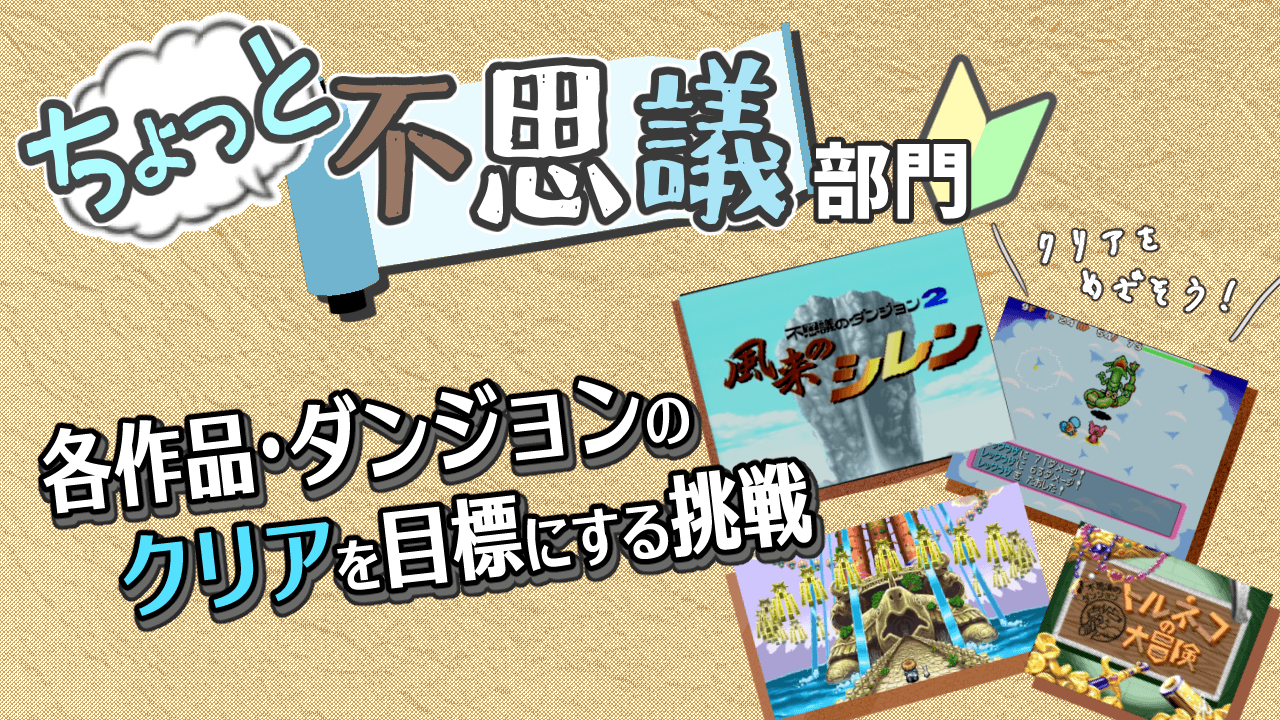
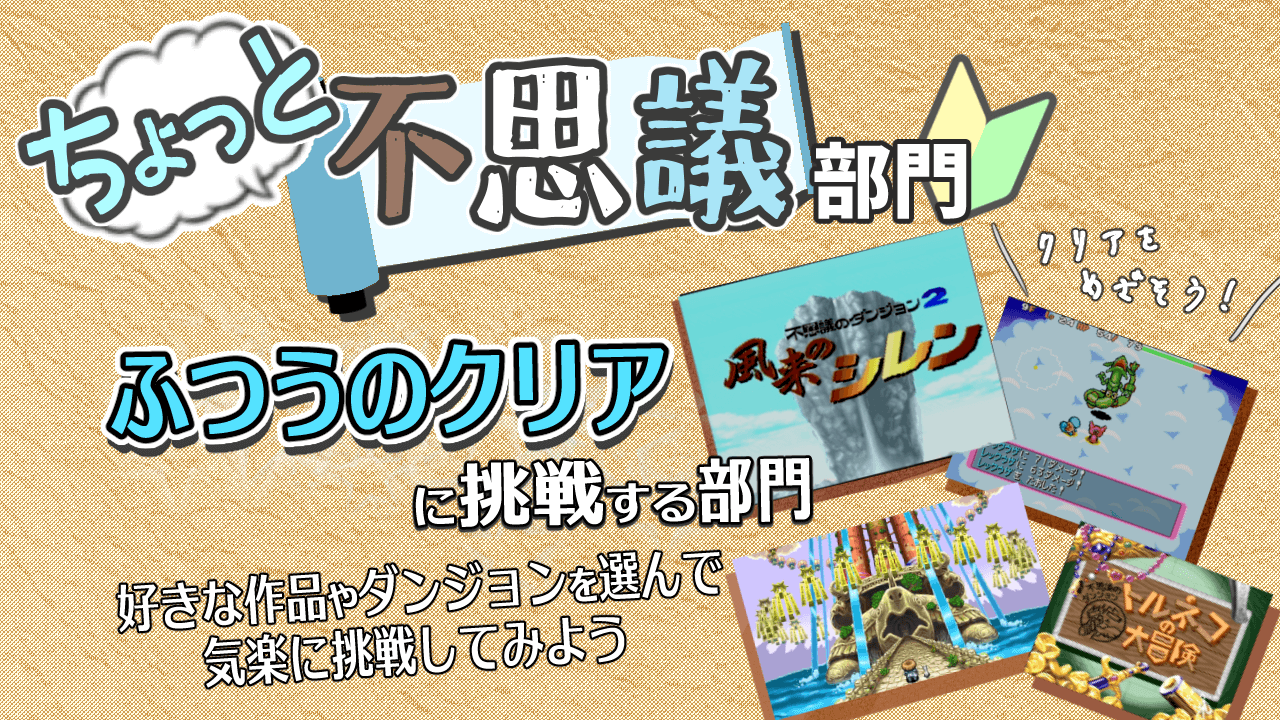
フライヤー差し替え

Changed region(s): [[0.0312, 0.4278, 0.6562, 0.9778], [0.8438, 0.7333, 0.875, 0.7639], [0.1562, 0.4278, 0.1875, 0.4583]]

diff --git a/src/components/page/event/Challenge/Challenge.tsx b/src/components/page/event/Challenge/Challenge.tsx
@@ -1,4 +1,5 @@
-import BlueButton from '@/components/ButtonLink/BlueButtonLink'
+import BlueButtonLink from '@/components/ButtonLink/BlueButtonLink'
+import BrownButtonLink from '@/components/ButtonLink/BrownButtonLink'
 import OutLineGreenButtonLink from '@/components/ButtonLink/OutLineGreenButtonLink'
 import SmallDiscordLink from '@/components/DiscordLink/SmallDiscordLink'
 import styles from '@/components/page/event/Challenge/Challenge.module.scss'
@@ -109,12 +110,12 @@ const Challenge = () => {
           <br />
           どなたでも応募可能です。
           <br />
-          イベント応募と結果報告は以下のGoogleフォームから行ってください。
+          イベント応募は以下のGoogleフォームから行ってください。
           <br />
           期間中の途中参加も大歓迎です！
           <br />
           <br />
-          <BlueButton
+          <BlueButtonLink
             href="https://docs.google.com/forms/d/e/1FAIpQLSd1C2o799W9tmZCbBWRBkvv2fXxNUtOdP0pOfNywUj5z901xw/viewform?usp=sf_link"
             text="イベントに応募する"
             target="_blank"
@@ -124,6 +125,17 @@ const Challenge = () => {
           <OutLineGreenButtonLink href="/event/challenge/submissions" text="応募一覧" />
         </p>
 
+        <h2>結果報告</h2>
+        <p className={styles.message}>
+          結果報告は以下のGoogleフォームから行ってください。
+          <br />
+          <br />
+          <BrownButtonLink
+            href="https://docs.google.com/forms/d/e/1FAIpQLSdpkSiXNHFRKFQDJNjmzQ4uhuGsU7lJEUo9dCi3HmaIMbfoKQ/viewform?usp=sf_link"
+            text="結果を報告する"
+            target="_blank"
+          />
+        </p>
         <h2>Q＆A</h2>
         <ul className={styles.list}>
           <li className={styles.listQuestion}>Q: イベントに関する質問はどこから行えますか？</li>
@@ -168,6 +180,29 @@ const Challenge = () => {
           </li>
         </ul>
 
+        <h2>ロゴ</h2>
+        <p className={styles.message}>
+          <Image
+            className={styles.image}
+            src="/images/challengerLogo.png"
+            alt="ふしチャレロゴ"
+            width={405}
+            height={217}
+          />
+          <br />
+          配信を行う際にご活用ください。
+          <br />
+          素材の改変や公序良俗に反する目的での利用は避けるようにお願いします。
+          <br />
+          <a
+            href="/images/challengerLogo.png"
+            className={styles.link}
+            target="_blank"
+            rel="noreferrer noopener"
+          >
+            元画像(高画質版)はこちら
+          </a>
+        </p>
         <h2>Discord</h2>
         <SmallDiscordLink />
       </div>

diff --git a/src/components/page/index/FirstView/FirstView.tsx b/src/components/page/index/FirstView/FirstView.tsx
@@ -27,7 +27,7 @@ const FirstView = (props: Props) => {
             <Image
               className={styles.image}
               src="/images/challengerLogo.png"
-              alt="ふしチャレンロゴ"
+              alt="ふしチャレロゴ"
               priority={true}
               width={405}
               height={217}
@@ -36,7 +36,7 @@ const FirstView = (props: Props) => {
           <div className={styles.innerBoxRight}>
             <p className={styles.eventHoldingPeriod}>{props.holdingPeriod}</p>
             <p className={styles.eventTitle}>{props.title}</p>
-            <p className={styles.eventApplicationPeriod}>応募受付中!</p>
+            <p className={styles.eventApplicationPeriod}>応募受付中！</p>
             <GreenButtonLink text="応募はこちら" href={props.url} />
           </div>
         </div>

diff --git a/src/components/page/index/FirstView/FirstView.module.scss b/src/components/page/index/FirstView/FirstView.module.scss
@@ -82,15 +82,9 @@
   .firstView {
     height: 580px;
     .innerBox {
-      left: 0;
-      right: 0;
-      width: 90%;
-      margin: 0 auto;
-      align-items: center;
       flex-direction: column;
       padding: 15px;
       height: 500px;
-      margin-top: 40px;
       .eventHoldingPeriod {
         font-size: 18px;
       }
@@ -98,7 +92,8 @@
         margin-right: 0;
       }
       .innerBoxRight {
-        padding: 20px;
+        padding: 20px 0 0 0;
+        align-items: center;
       }
     }
   }

diff --git a/src/components/ButtonLink/BrownButtonLink.tsx b/src/components/ButtonLink/BrownButtonLink.tsx
@@ -1,0 +1,20 @@
+import ButtonLink from '@/components/ButtonLink/ButtonLink'
+
+interface Props {
+  text: string
+  href: string
+  target?: string
+}
+
+const BrownButtonLink = (props: Props) => {
+  return (
+    <ButtonLink
+      color="rgb(200, 143, 96)"
+      text={props.text}
+      href={props.href}
+      target={props.target}
+    />
+  )
+}
+
+export default BrownButtonLink
